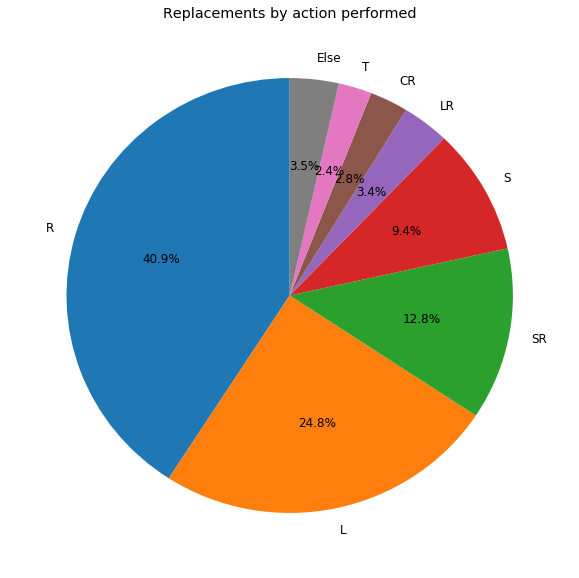
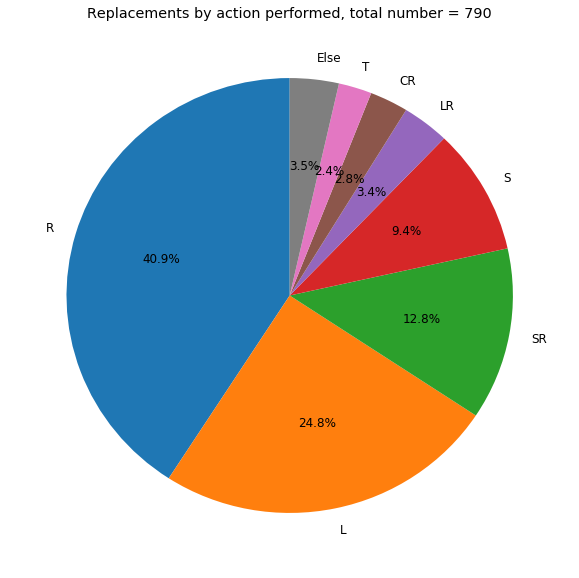
added total number to the plots, slightly modified the main notebook

Changed region(s): [[0.1554, 0.0, 0.8394, 0.0311]]

diff --git a/README.md b/README.md
@@ -5,16 +5,27 @@ This repo exists to automate the renaming of current superfamilies in CATH accor
 
 ### Automation
 
-Using this [jupyter notebook]('./renaming.ipynb') 3 main data files were created:
+Most of the job is done by the custom python module [CATH-parser](CATH_parser.py).
+
 #### [Renamed superfamilies](./results/renamed_superfamilies.tsv)
 Has the easiest cases, which refer to the first part of the guidelines. Fixes errors such as trailing stops, semicolons, lowercase start (except mRNA and such) etc. Whenever a fix happens a one-letter comment is added.
-**R** - removed excessive capital letters, **S** - replace semicolon, **L** - lowercase start, **T** - trailing stop, **C** - other stop(except between digits).   
+* **R** - removed excessive capital letters
+* **S** - replace semicolon
+* **L** - lowercase start
+* **T** - trailing stop
+* **C** - other stop(except between digits)
+* **I** - ii to II conversion, for example photosystem II
+* **O** - capitalising first letter in various bacteria *(only coccus so far)*
 
 ![replace](./plots/replacement.png)
  ***
 #### [Flagged superamilies]('./results/flagged,tsv') (*work in progress*)
 Superfamilies that have something wrong with the name but are too complicated to fix automatically.
-**U** - underscore, **P** - plus, **F** - forbidden words, **S** - bad start, **W** - unprreferred words
+* **U** - underscore
+* **P** - plus
+* **F** - forbidden words
+* **S** - bad start
+* **W** - unprreferred words
 
 ![flag](./plots/flags.png)
 ***
